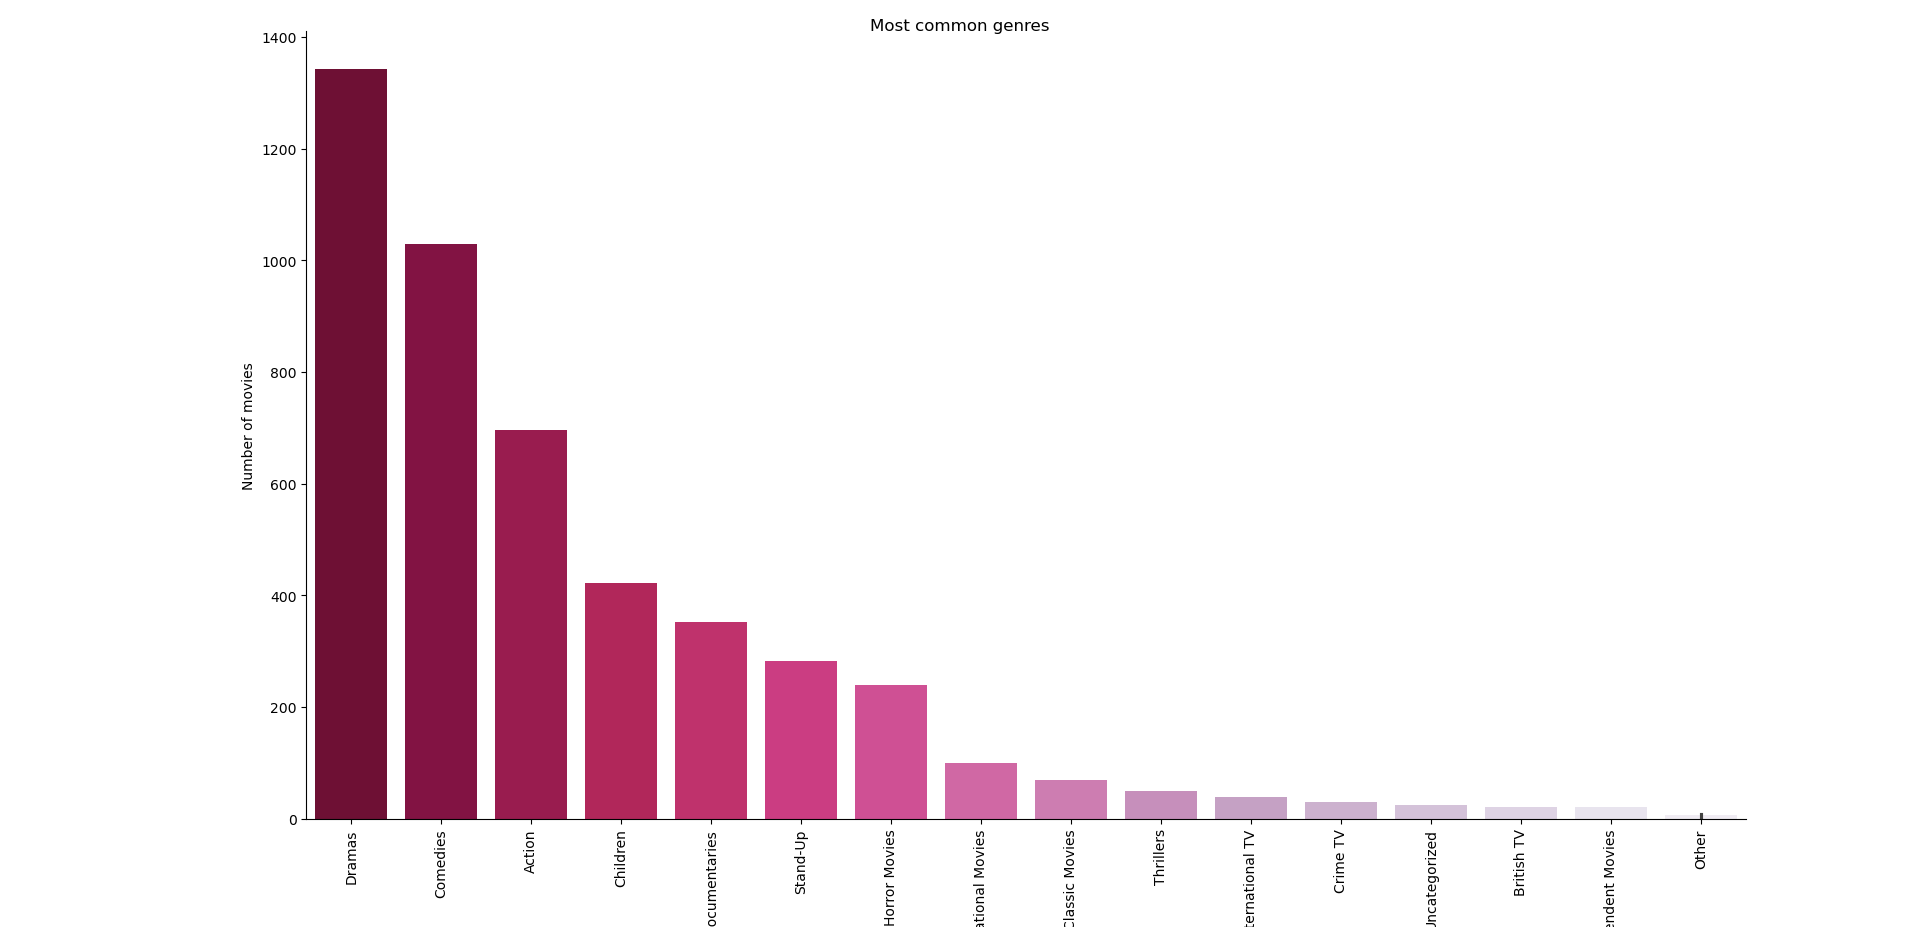
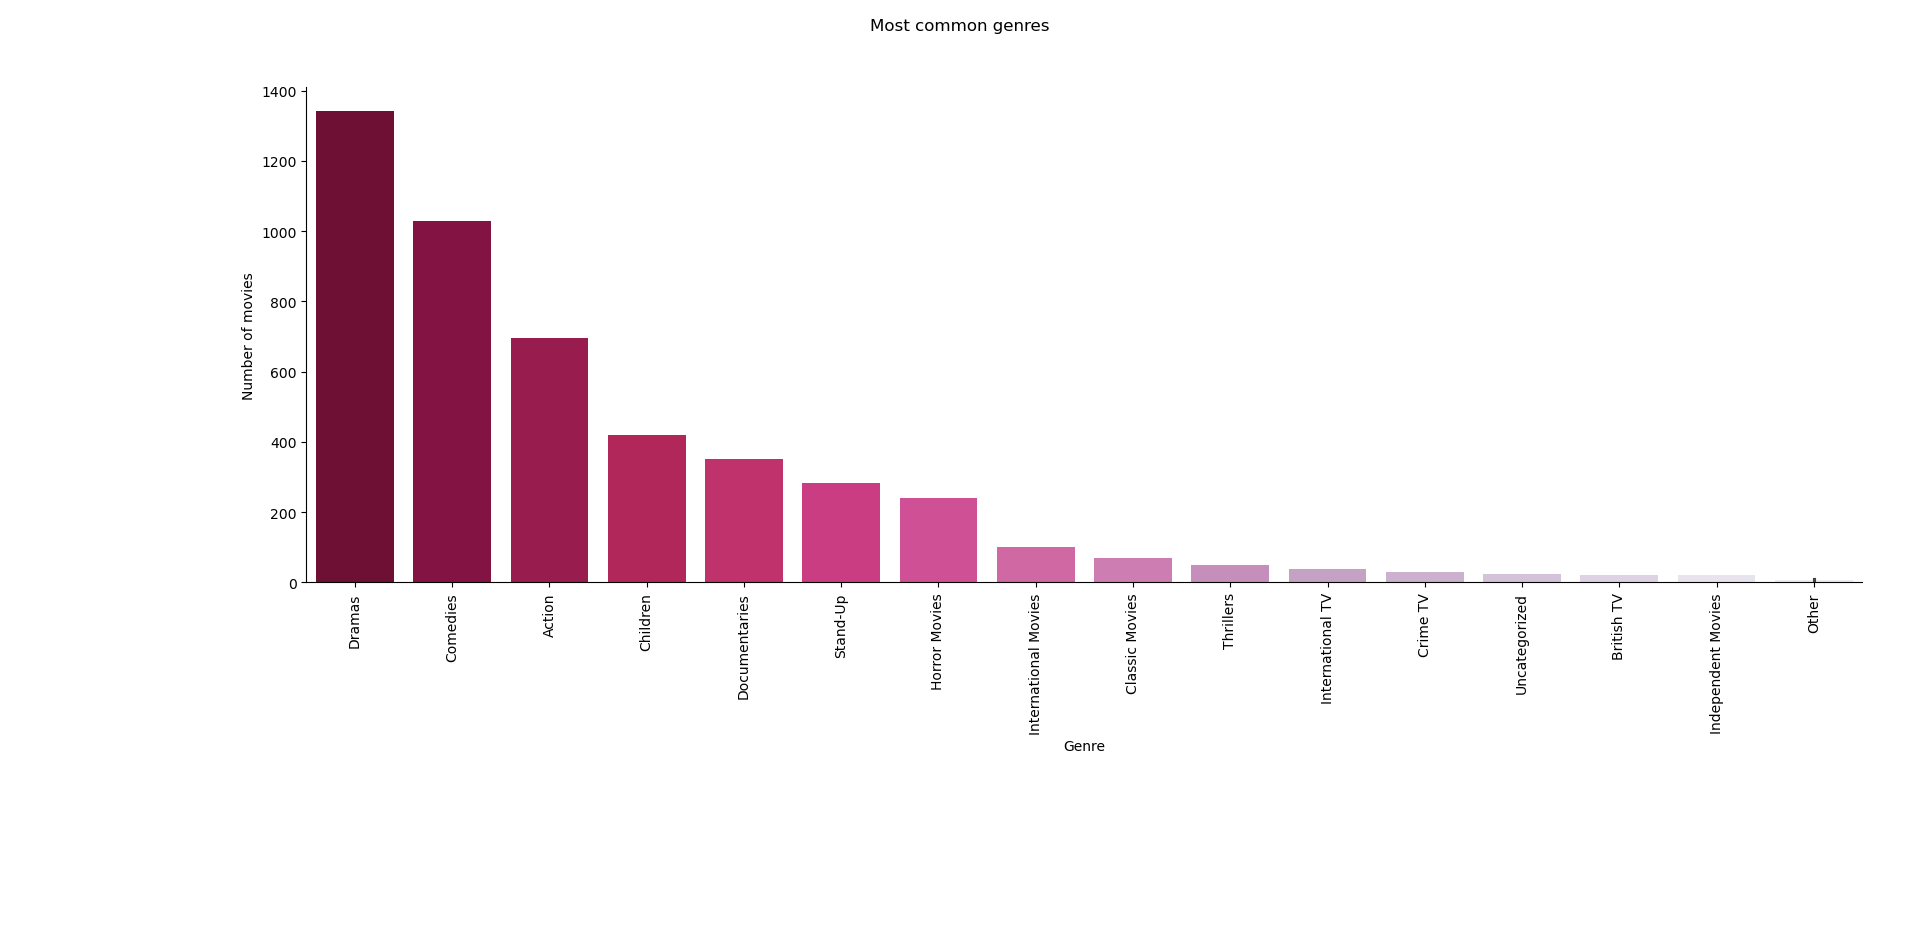
Add Netflix_movies to the project

diff --git a/Netflix_movies/Netflix.py b/Netflix_movies/Netflix.py
@@ -19,6 +19,7 @@ gen_bar = sns.catplot(x='mod_gen',y='count',data=common_gen,kind='bar',palette='
 gen_bar.fig.suptitle('Most common genres')
 gen_bar.set(xlabel='Genre',ylabel='Number of movies')
 plt.xticks(rotation=90)
+plt.tight_layout()
 plt.show()
 
 #%% Most productive producers
@@ -30,6 +31,7 @@ dir_bar = sns.catplot(x='mod_dir',y='count',data=pro_dir,kind='bar',palette='Blu
 dir_bar.fig.suptitle('Most productive directors')
 dir_bar.set(xlabel='Director',ylabel='Number of movies')
 plt.xticks(rotation=90)
+plt.tight_layout()
 plt.show() 
 
 

diff --git a/Netflix_movies/README.md b/Netflix_movies/README.md
@@ -57,7 +57,7 @@
         - Counting
         - Grouping
         - Selecting
-        - Filtering
+        - Aggregating
     🔹Numerical operations
     🔹Data visulization using Seaborn:
         - Line plot
